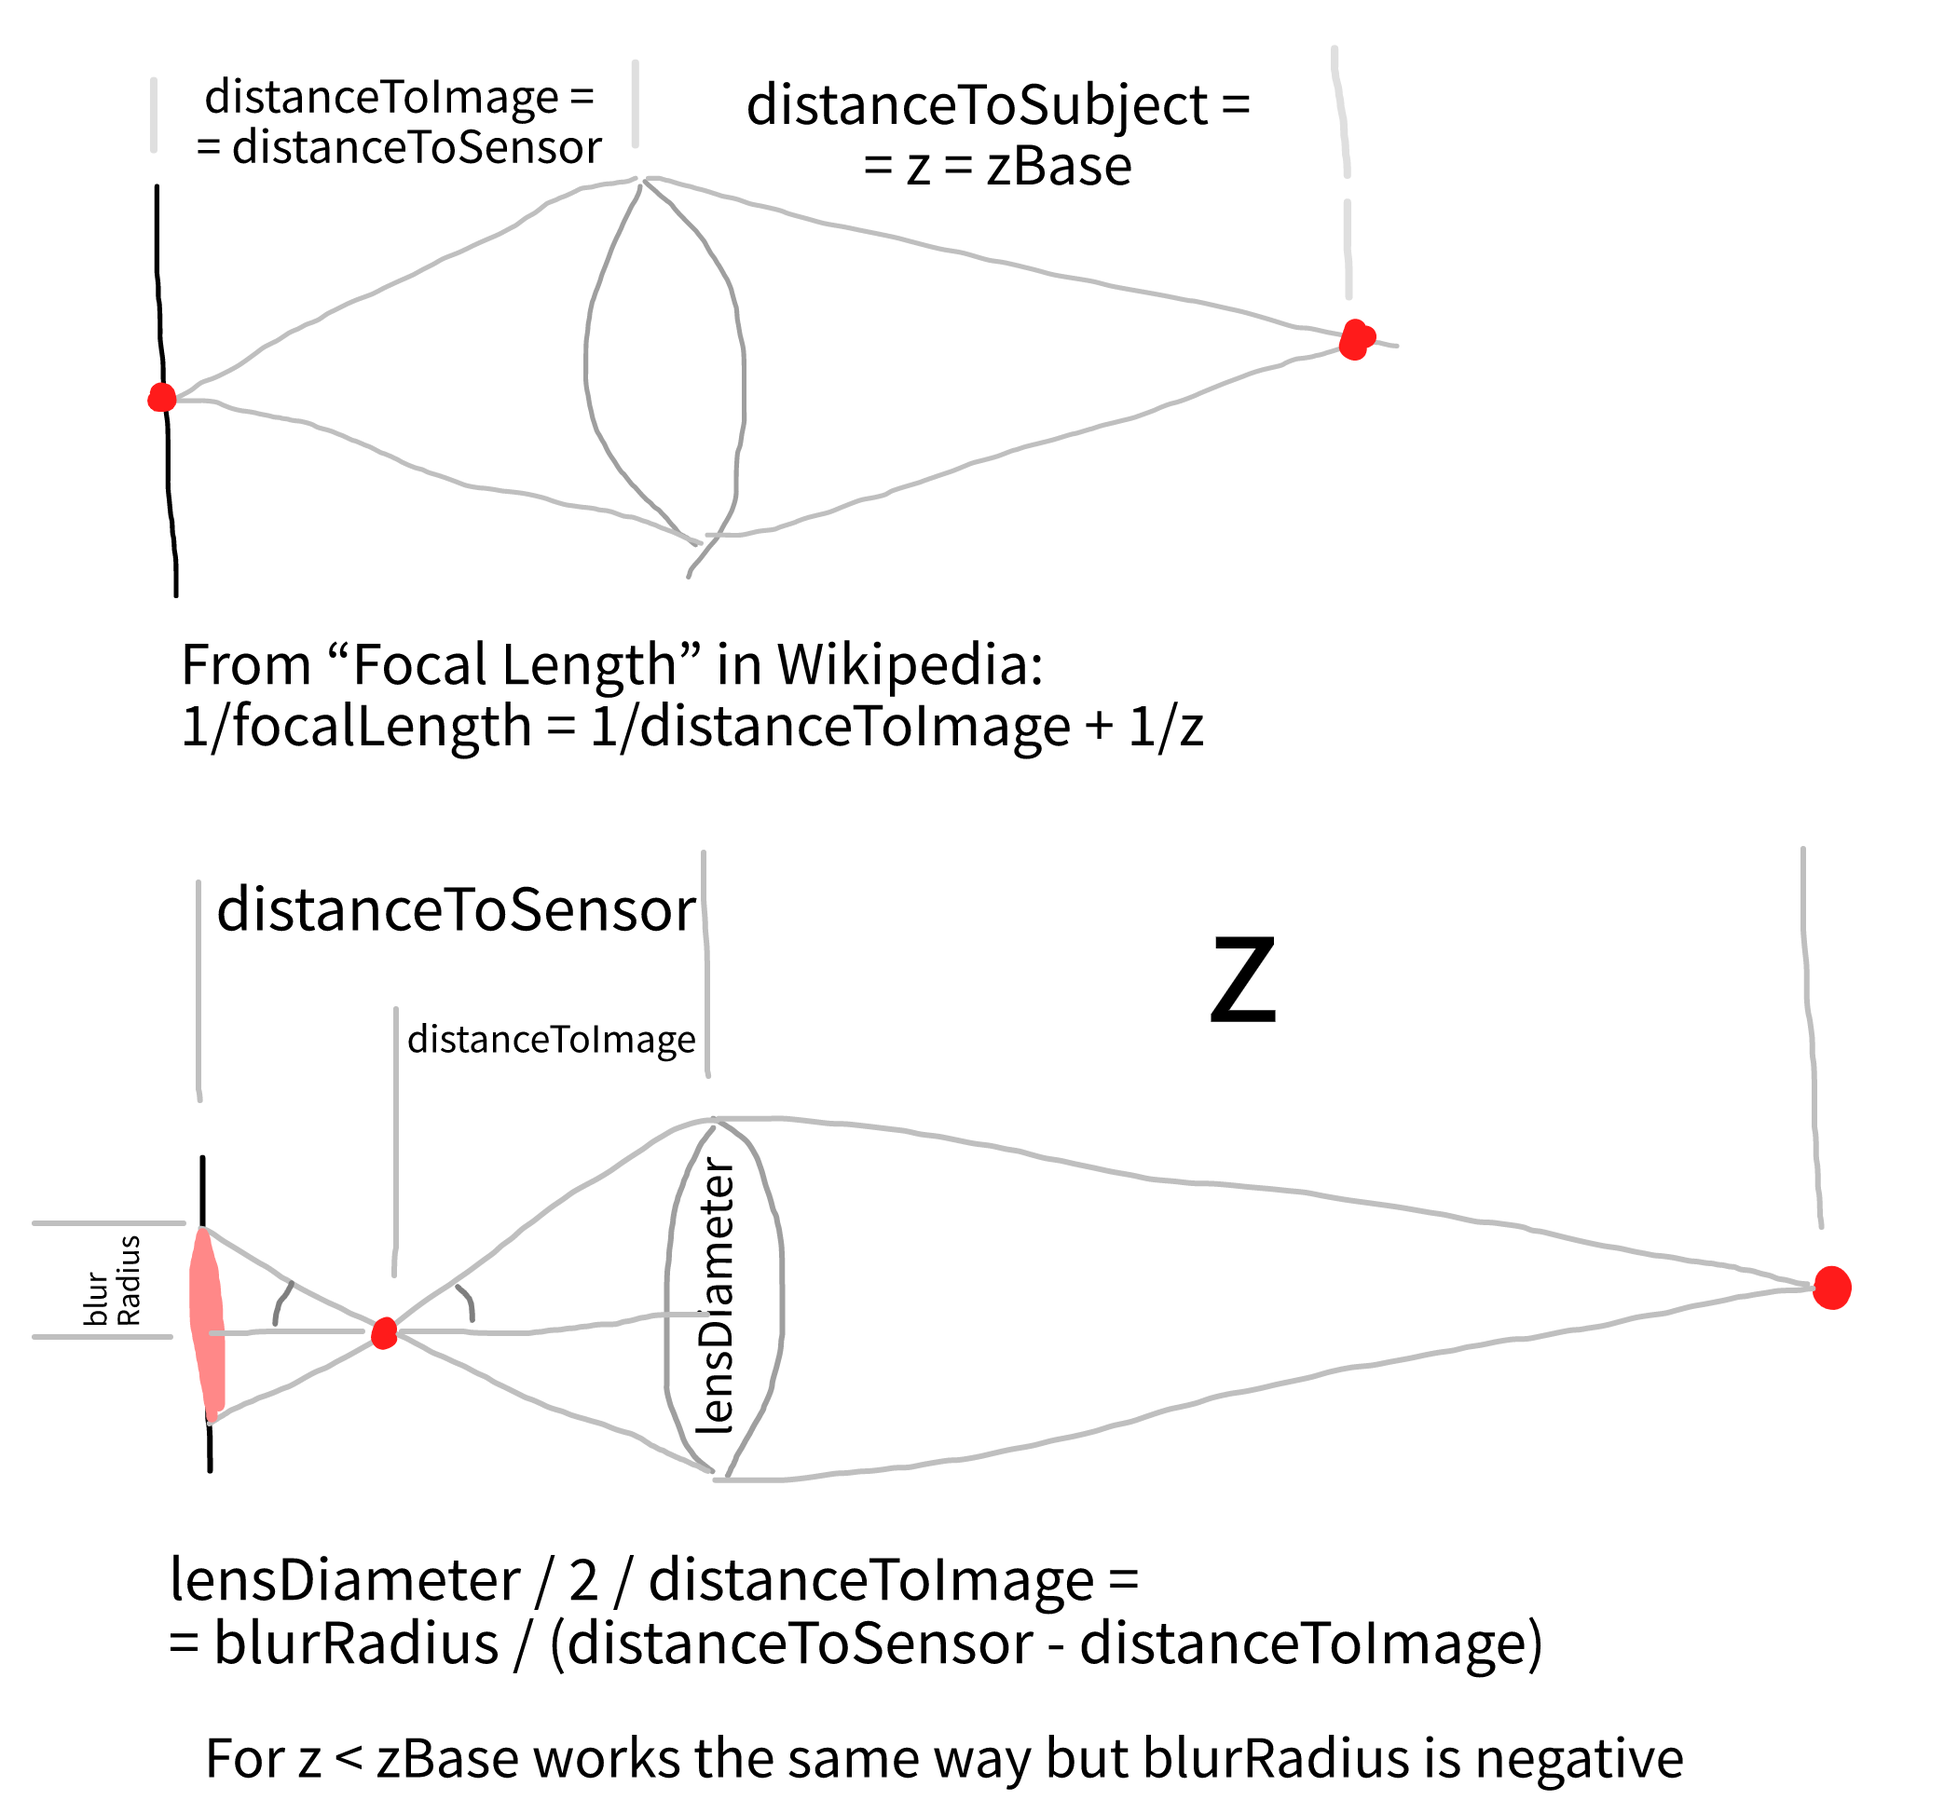
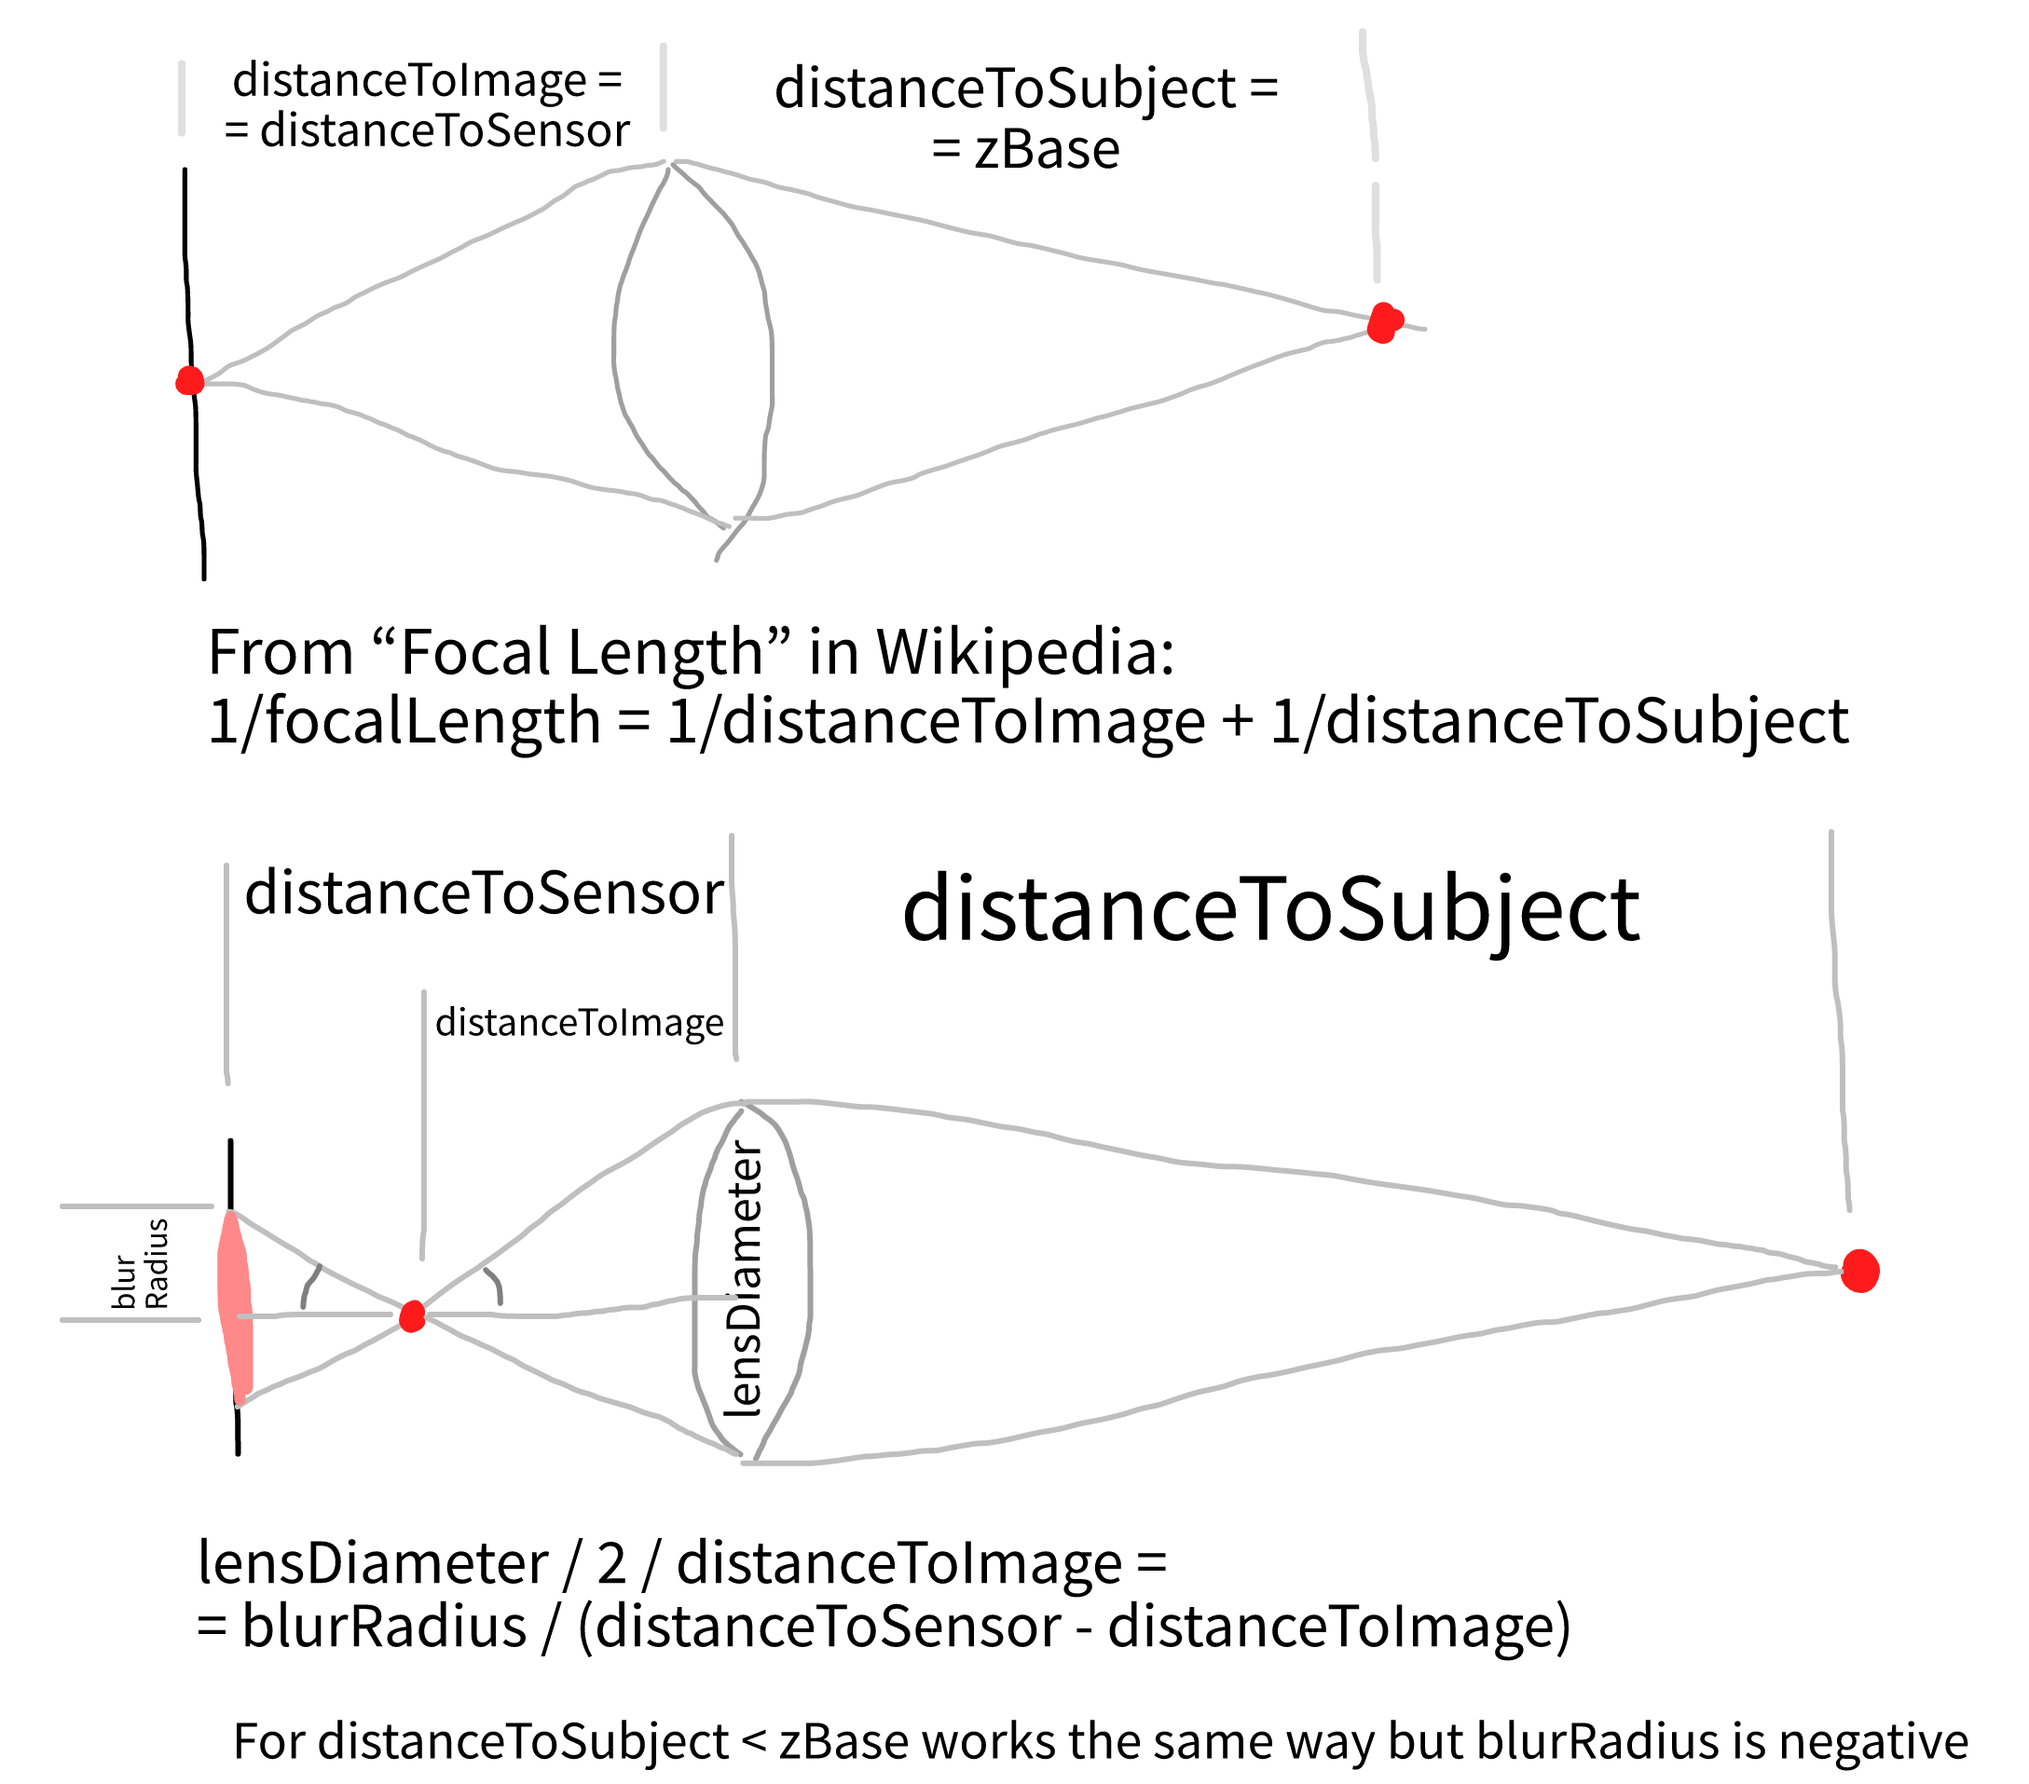
Optics calculations

diff --git a/src/drawCodeScene.ts b/src/drawCodeScene.ts
@@ -11,10 +11,11 @@ import { RGB, rgbSize } from './ColorScheme';
 import type { CodeColorization } from './colorizeCode';
 import { uploadArrayToAttribute } from './util/uploadArrayToAttribute';
 import { uploadTexture } from './util/uploadTexture';
-import { calcExtensions, makePixelSpace } from './PixelSpace';
+import { calcExtensions, makePixelSpace, PixelSpace } from './PixelSpace';
 import { dpr } from './util/dpr';
 
 export type CodeSceneDrawn = {
+    pixelSpace: PixelSpace,
     verticesArray: Float32Array,
     txMat: Mat4,
     bgColor: RGB,
@@ -120,5 +121,10 @@ export function drawCodeScene(canvasEl: HTMLCanvasElement,
 
     gl.drawArrays(gl.TRIANGLES, 0, sceneData.vertices.length / vertexSize2d);
 
-    return {verticesArray, txMat, bgColor: codeColorization.bgColor};
+    return {
+        pixelSpace: pSp,
+        verticesArray,
+        txMat,
+        bgColor: codeColorization.bgColor,
+    };
 }

diff --git a/src/drawEffectsScene.ts b/src/drawEffectsScene.ts
@@ -29,6 +29,26 @@ export function drawEffectsScene(canvasEl: HTMLCanvasElement, codeSceneDrawn: Co
         codeSceneDrawn.txMat,
     );
 
+    gl.uniform1f(
+        gl.getUniformLocation(program, 'u_zBase'),
+        codeSceneDrawn.pixelSpace.zBase,
+    );
+
+    gl.uniform1f(
+        gl.getUniformLocation(program, 'u_focalLength'),
+        codeSceneDrawn.pixelSpace.optics.focalLength,
+    );
+
+    gl.uniform1f(
+        gl.getUniformLocation(program, 'u_distanceToSensor'),
+        1 / (1 / codeSceneDrawn.pixelSpace.optics.focalLength - 1 / codeSceneDrawn.pixelSpace.zBase),
+    );
+
+    gl.uniform1f(
+        gl.getUniformLocation(program, 'u_lensDiameter'),
+        codeSceneDrawn.pixelSpace.optics.lensDiameter,
+    );
+
     gl.uniform3fv(
         gl.getUniformLocation(program, 'u_bg'),
         codeSceneDrawn.bgColor,
